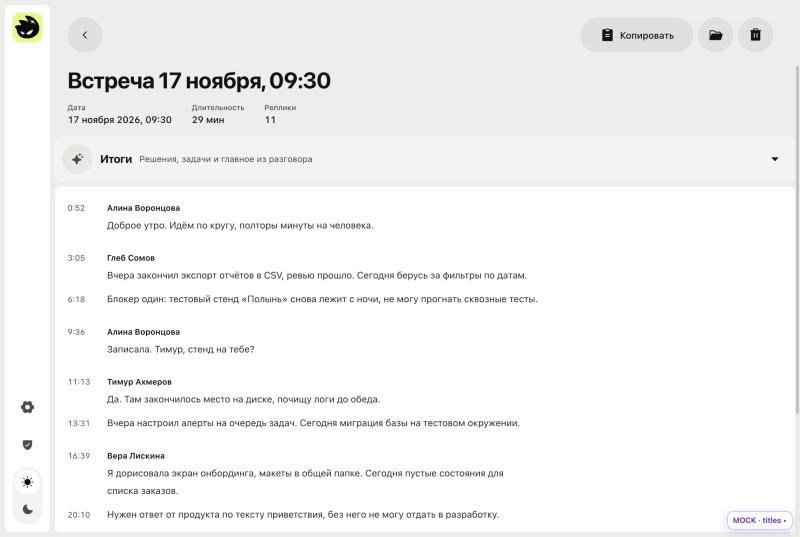
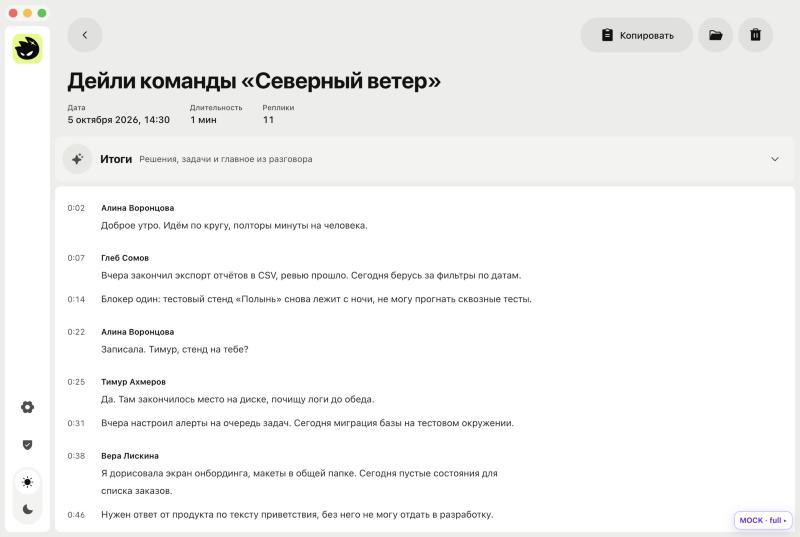
Шеврон итогов: bold и серый, правило для всех шевронов Caret

diff --git a/frontend/src/shade/pages/MeetingDetails.tsx b/frontend/src/shade/pages/MeetingDetails.tsx
@@ -299,8 +299,8 @@ function SummaryBlock({
             {t('summary')}
           </span>
           <span className="hidden text-sm text-muted-foreground sm:inline">{t('summaryOpenHint')}</span>
-          {/* Вниз, когда свёрнуто, вверх, когда раскрыто: залитый треугольник вправо читается как «воспроизвести» */}
-          <CaretDown className={cn('ml-auto size-4 transition-transform', open && 'rotate-180')} aria-hidden />
+          {/* Шеврон `bold` (не залитый треугольник), серый, как остальной второстепенный текст. Вниз, когда свёрнуто, вверх, когда раскрыто */}
+          <CaretDown weight="bold" className={cn('ml-auto size-4 shrink-0 text-muted-foreground transition-transform', open && 'rotate-180')} aria-hidden />
           <span className="sr-only">{open ? t('collapse') : t('expand')}</span>
         </button>
       </div>

diff --git a/docs/ui/foundations.md b/docs/ui/foundations.md
@@ -10,7 +10,7 @@
 ## Иконки
 - Только `@phosphor-icons/react` и только залитые: `weight="fill"` везде (по умолчанию через `ShadeIcons`), `regular` и другие начертания не использовать.
 - Без иконок со встроенной подложкой: варианты `*Square`, `*Circle` (`CheckCircle`, `WarningCircle`, `Info`, `Question` и т. п.) и всё, что в заливке становится сплошной плашкой (`Subtitles`, `QuestionMark`, `ExclamationMark`).
-- Исключения, `weight="bold"`: шевроны-указатели `CaretRight` в строке списка и `CaretLeft` в кнопке «Назад» (залитый треугольник читается как «воспроизвести»), галочка `Check` и крестик `X` (залитые нарисованы квадратом), лупа поиска `MagnifyingGlass` (залитая рисуется сплошным диском).
+- Исключения, `weight="bold"`: любой шеврон `Caret*` (всегда `bold`, залитый становится треугольником и читается как «воспроизвести», решение владельца 2026-11-17): `CaretRight` в строке списка, `CaretLeft` в кнопке «Назад», `CaretDown` в полосе итогов; цвет шеврона `text-muted-foreground`, как у второстепенного текста, галочка `Check` и крестик `X` (залитые нарисованы квадратом), лупа поиска `MagnifyingGlass` (залитая рисуется сплошным диском).
 - Размеры: 24 px в кнопках с текстом, в главных круглых кнопках-иконках 56 px и в сайдбаре, 16 и 20 px в мелких местах (миниатюры строк, чипы).
 - Знак в уведомлениях (`FinishCard`, тосты, карточки про микрофон), в карточках итога и в миниатюрах строк всегда в круге на подложке (вложенная поверхность или мягкий тон роли; у уведомлений круг 44 px, иконка 20 px). Иконки в кнопках без подложки, подложка у самой кнопки. Сами значки без встроенных подложек.
 - Индикатор ожидания только `Spinner` (`components/ui/spinner.tsx`, дуга без подложки, цвет `--loader`), скелетоны только `Skeleton` (`--skeleton`). Иконки-спиннеры Phosphor не использовать: в заливке это диск с вырезом.

diff --git a/docs/ui/meeting.md b/docs/ui/meeting.md
@@ -5,7 +5,7 @@
 ## Раскладка (`pages/MeetingDetails.tsx`)
 - Дочерний экран: полоса с «Назад» и действиями таблетками ([frame.md](frame.md#шапка-componentspagetsx)).
 - Большое название 36/40 и мета подписью и значением на фоне окна. Дата в мете есть всегда (у названия по дате она раньше не показывалась, и мета «прыгала» бы, когда название придумывается позже).
-- Итоги: нейтральная полоса-заголовок (`bg-muted`, без цвета роли; итоги не акцент экрана, решение владельца 2026-11-17), ниже плитка транскрипта. Колонка текста `MEASURE`.
+- Итоги: нейтральная полоса-заголовок (`bg-muted`, без цвета роли; итоги не акцент экрана, решение владельца 2026-11-17) с серым шевроном `CaretDown` `bold` справа, ниже плитка транскрипта. Полоса есть только когда итоги есть: их запускает человек кнопкой «Подвести итоги» (сама Shade итоги не делает). Колонка текста `MEASURE`.
 - Без текста плитка Giants «Речь не распознана» с действиями («Скачать модель», если её нет; «Открыть папку», «Удалить»). «Распознать заново» (диалог, меню «Ещё») убрано по просьбе владельца 2026-11-17: ядро (`audio/retranscription.rs`) осталось, интерфейс его не зовёт. Правило двух плиток теперь про Giants и цветные плитки других экранов ([foundations.md](foundations.md#правило-двух-плиток)).
 - Кнопки записи в покое здесь нет; капсула идущей записи и итог показываются ([recording.md](recording.md)).
 
